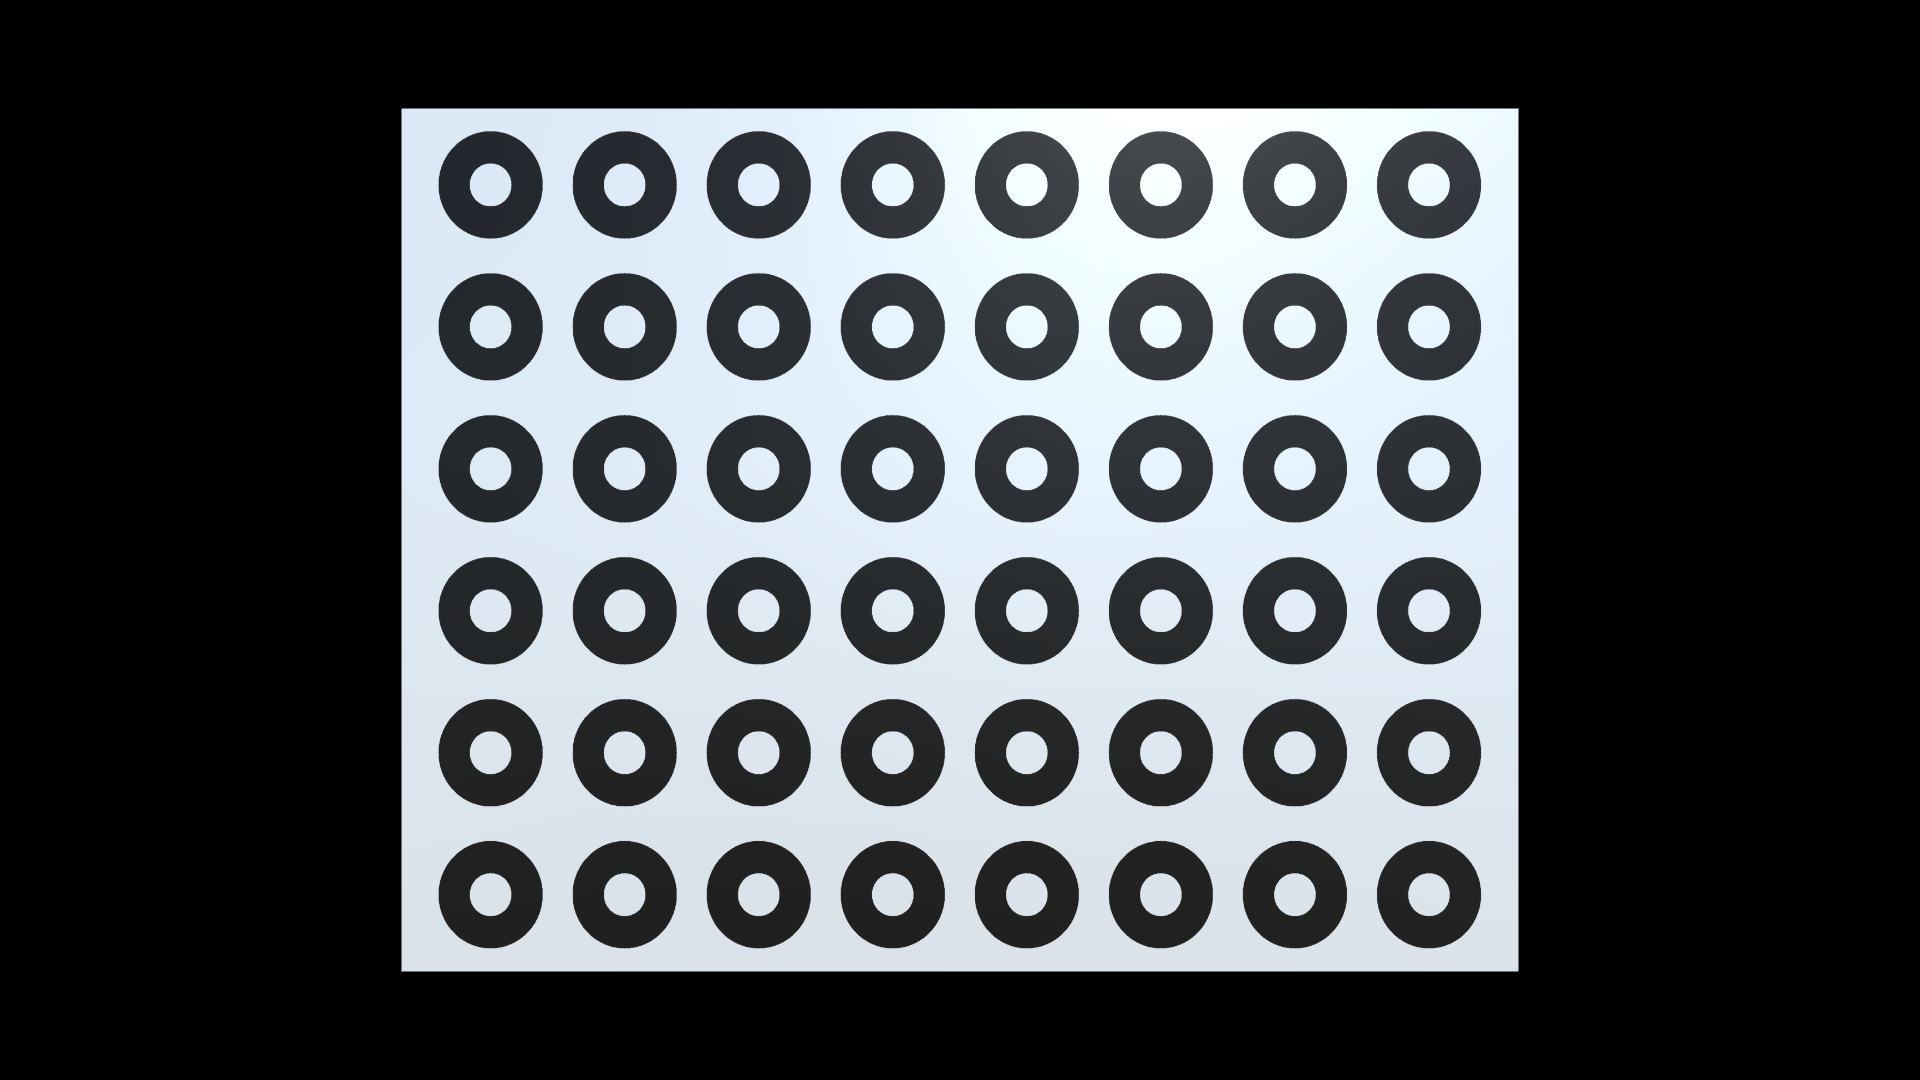
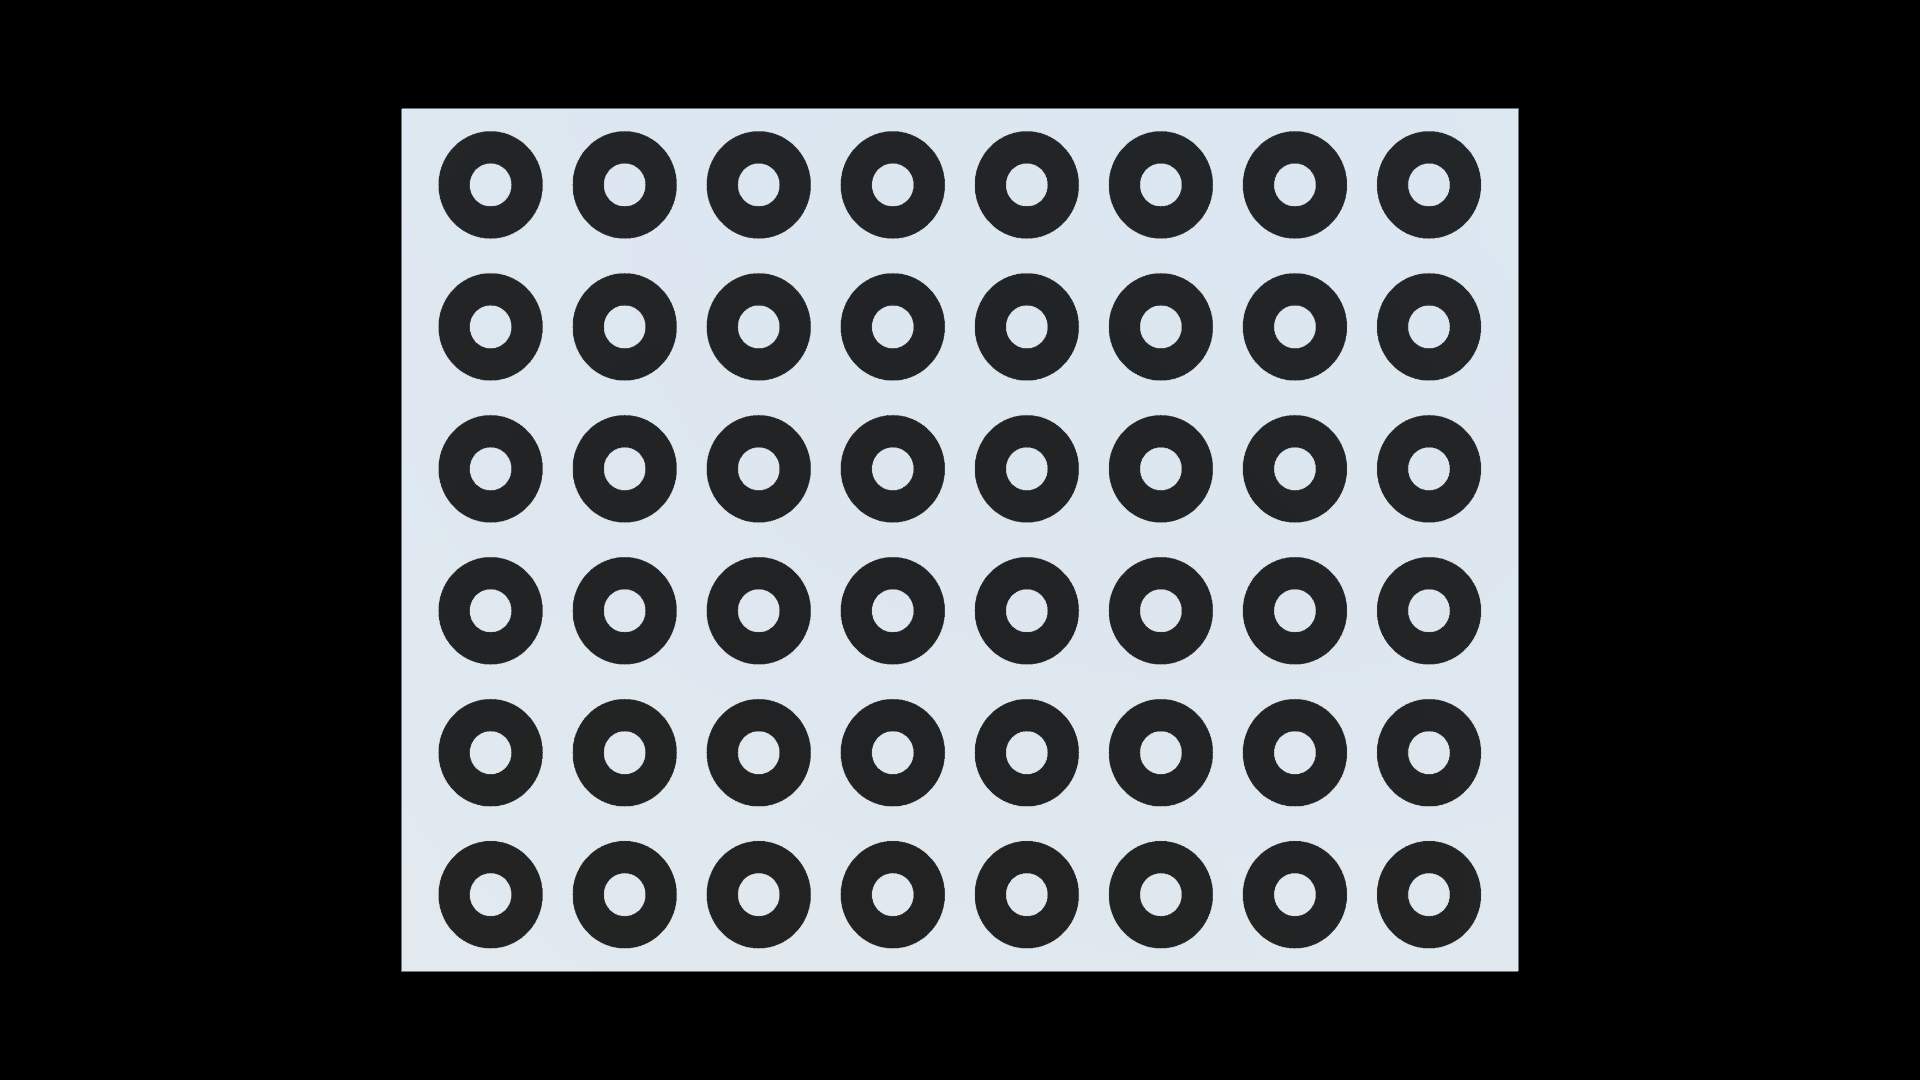
updated readmes with correct resources

Changed region(s): [[0.5, 0.0917, 0.75, 0.3056]]

diff --git a/centroid-detection/README.md b/centroid-detection/README.md
@@ -14,12 +14,19 @@ Source: https://github.com/the-other-mariana/vision/blob/master/centroid-detecti
 
     - Source (1): https://github.com/the-other-mariana/vision/blob/master/centroid-detection/circle-centroid-detection/circle-centroid-detection/circle-centroid-detection.cpp
 
+Status: Not Considered
 
-2. The second option is to use the concept of Blobs, which is similar to Region Detection, and through an area threshold applied to the contours found on the photo, mark it as either an outer centroid or an inner centroid. This process seemed to work nice.
+2. The second option is to use the concept of Blobs, and for that opencv has a structure called SimpleBlobDetector, to which you adjust the parameters and then get the key points (centers) of such detected blobs. In this case, an area filter is done for the blobs.
 
-    - Source (2): https://github.com/the-other-mariana/vision/blob/master/centroid-detection/circle-centroid-detection-regions/circle-centroid-detection-regions/circle-centroid-detection-regions.cpp
+- Source (2): https://github.com/the-other-mariana/vision/blob/master/centroid-detection/circle-centroid-detection-blobs/circle-centroid-detection-blobs/circle-centroid-detection-blobs.cpp
 
-    - What is a **blob**? A blob is a group of connected pixels that share a property, like the grayscale value. 
+- What is a **blob**? A blob is a group of connected pixels that share a property, like the grayscale value, an specific area, etc.
+
+Status: Considered
+
+3. The third option is to use Region Detection, and through an area threshold applied to the contours found on the photo, mark it as either an outer centroid or an inner centroid. This process seemed to work nice.
+
+    - Source (3): https://github.com/the-other-mariana/vision/blob/master/centroid-detection/circle-centroid-detection-regions/circle-centroid-detection-regions/circle-centroid-detection-regions.cpp
 
     - What is the **centroid** of a shape? It is the mean (average) of all the points, in this case pixels, in a shape.
 
@@ -35,9 +42,13 @@ Source: https://github.com/the-other-mariana/vision/blob/master/centroid-detecti
 
     The M_10 refers to the calculation that, for every white pixel, the accumulated value is j^1 * i^0 * (pixel / 255). Corresponding subindex refer to the power to which j and i are elevated.
 
-3. The third option was to try and fit an ellipse to the found contours that once again fell in the estimated areas for outer and inner circles, and then mark the centers of both. This was similar to the previous step, which also works nice.
+Status: Considered
 
-    - Source (3): https://github.com/the-other-mariana/vision/blob/master/centroid-detection/centroid-detection-ellipse/centroid-detection-ellipse/centroid-detection-ellipse.cpp
+4. The fourth option was to try and fit an ellipse to the found contours that once again fell in the estimated areas for outer and inner circles, and then mark the centers of both. This was similar to the previous step, which also works nice.
+
+    - Source (4): https://github.com/the-other-mariana/vision/blob/master/centroid-detection/centroid-detection-ellipse/centroid-detection-ellipse/centroid-detection-ellipse.cpp
+
+Status: Considered
 
 ### Detected Centroids (2, 3)
 ----
@@ -48,18 +59,6 @@ Source: https://github.com/the-other-mariana/vision/blob/master/centroid-detecti
 ----
 
 ![img](https://github.com/the-other-mariana/vision/blob/master/centroid-detection/detections.png?raw=true)
-
-## Error Plot
-
-If we compute the difference between both detected centroids in each of the three approaches, we will get an estimated error. Now, if we plot an histogram of these continuous error values by dividing the range in intervals and recording the frecuency of these errors inside the intervals, we would get the following plots. In this way, we can observe the distributions of the errors within the three 'equivalent' approaches.
-
-### Grid Form
-
-![img](https://github.com/the-other-mariana/vision/blob/master/centroid-detection/histograms/plots-grid.png?raw=true)
-
-### Single Plot Form
-
-![img](https://github.com/the-other-mariana/vision/blob/master/centroid-detection/histograms/sidebars.png?raw=true)
 
 ## Handy Links
 

diff --git a/algorithm-evaluation/README.md b/algorithm-evaluation/README.md
@@ -1,5 +1,57 @@
 # Pattern Detection Algorithm Evaluation
 
+## Test Renders using Unity 3D
+
+The test renders of the pattern in centered, front tilt (45°) and side tilt (45°) were done in Unity 3D, using a script that would get a frame of 1920x1080 resolution from a camera placed within a 1.5 meters distance accross the pattern, with a FOV of 84° that simulated the human eye.
+
+Source: https://github.com/the-other-mariana/vision/blob/master/algorithm-evaluation/renders/Assets/SnapshotCamera.cs
+
+### Renders
+
+![img](https://github.com/the-other-mariana/vision/blob/master/algorithm-evaluation/res/renders-preview.png?raw=true)
+
+## Error Plot
+
+If we compute the difference between both detected centroids in each of the three **considered** (blobs, regions and ellipse) approaches, we will get an estimated error. Now, if we plot an histogram of these continuous error values by dividing the range in intervals and recording the frecuency of these errors inside the intervals, we would get the following plots. In this way, we can observe the distributions of the errors within the three 'equivalent' approaches.
+
+- Center Pattern
+
+### Grid Form
+
+![img](https://github.com/the-other-mariana/vision/blob/master/algorithm-evaluation/histograms/out/grid-center.png?raw=true)
+
+### Single Plot Form
+
+![img](https://github.com/the-other-mariana/vision/blob/master/algorithm-evaluation/histograms/out/condensed-center.png?raw=true)
+
+- Front-tilt Pattern
+
+### Grid Form
+
+![img](https://github.com/the-other-mariana/vision/blob/master/algorithm-evaluation/histograms/out/grid-front-tilt.png?raw=true)
+
+### Single Plot Form
+
+![img](https://github.com/the-other-mariana/vision/blob/master/algorithm-evaluation/histograms/out/condensed-front-tilt.png?raw=true)
+
+- Side-tilt Pattern
+
+### Grid Form
+
+![img](https://github.com/the-other-mariana/vision/blob/master/algorithm-evaluation/histograms/out/grid-side-tilt.png?raw=true)
+
+### Single Plot Form
+
+![img](https://github.com/the-other-mariana/vision/blob/master/algorithm-evaluation/histograms/out/condensed-side-tilt.png?raw=true)
+
+## Interpretation
+
+The **Center Pattern** error plots show that the errors fall into the same interval, due to the small error in a perfectly centered pattern render.
+
+As we check further pattern renders, we can conclude that most of the errors for the blob technique are located in the smaller intervals, while the errors using the other two techniques are spread accross bigger intervals, towards the right side of the horizontal axis.
+
+Therefore, it seems like a blob approach for pattern detection is the one that would yield the smallest errors.
+
 ## Handy Links
 
 - [FOV Eye](https://petapixel.com/2012/11/17/the-camera-versus-the-human-eye/)

diff --git a/README.md b/README.md
@@ -51,4 +51,6 @@ int main()
 
 4. [Sinusoidal Pattern Generation](https://github.com/the-other-mariana/vision/tree/master/phase-shifting-sinusoidal-code)
 
-5. [Centroid Detection for Camera Calibration](https://github.com/the-other-mariana/vision/tree/master/centroid-detection)
+5. [Pattern Detection for Camera Calibration](https://github.com/the-other-mariana/vision/tree/master/centroid-detection)
+
+5. [Pattern Detection Algorithm Evaluation](https://github.com/the-other-mariana/vision/tree/master/algorithm-evaluation)
